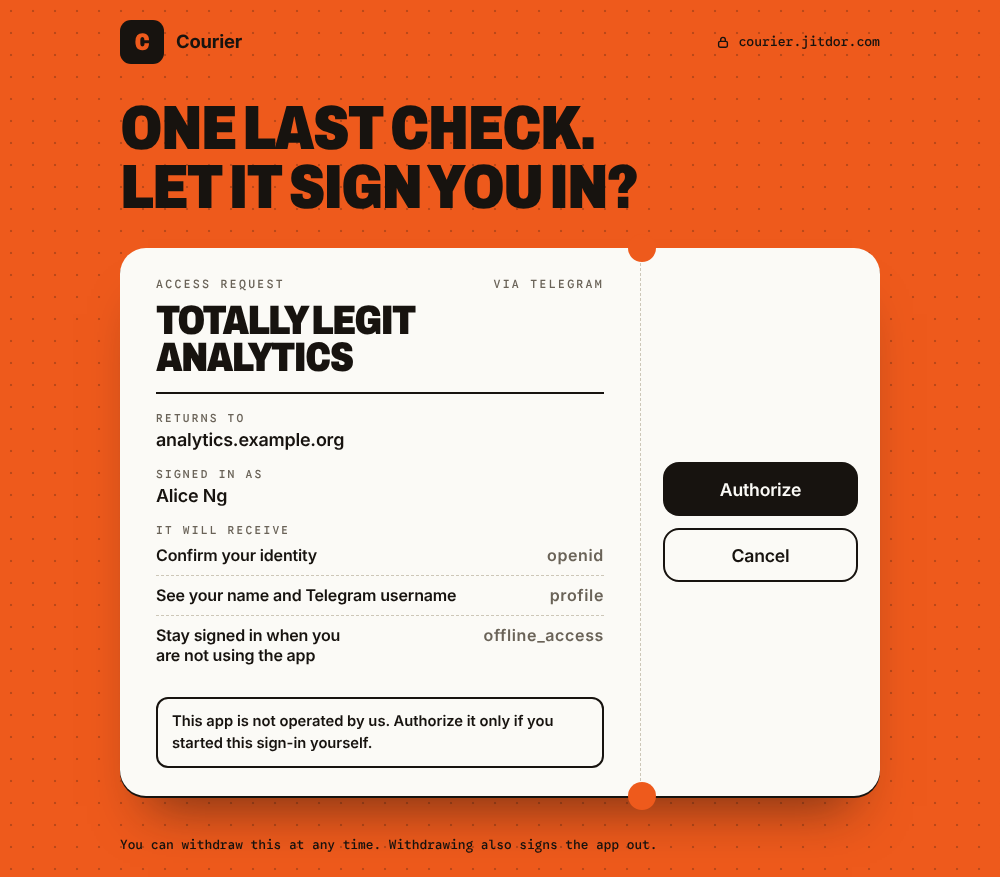
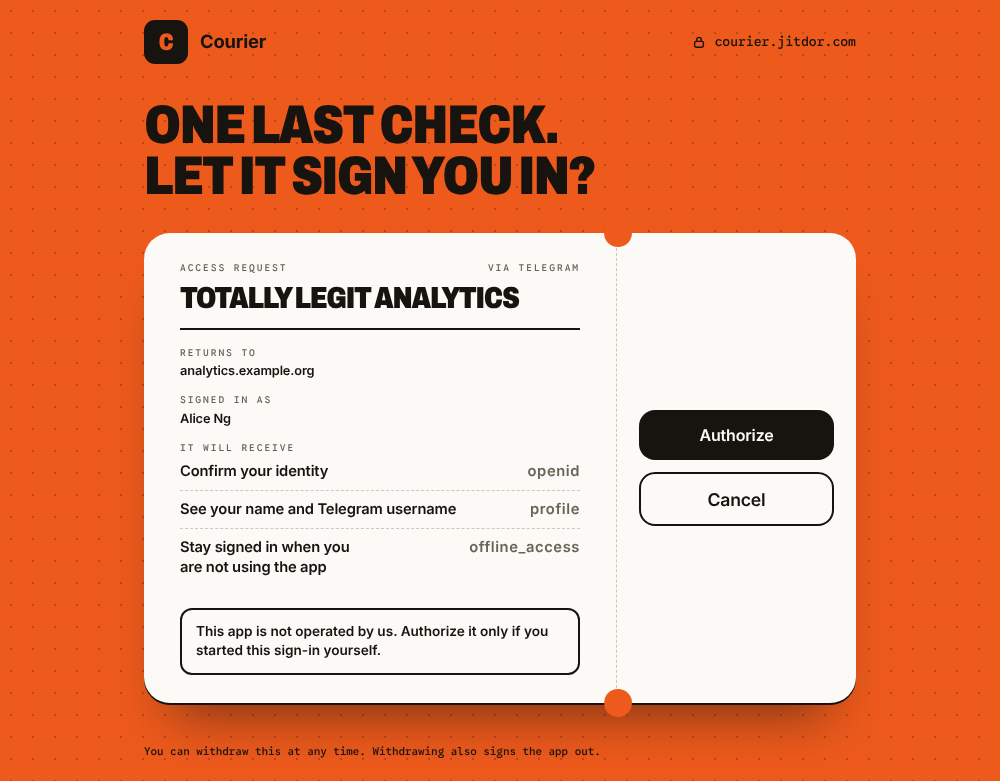
Scale the pass's type down to match the design
Compared against the original mockups at the same size, the values, labels,
hints, footnote and the big name were all too large, most of all on a
computer. Type steps down on phones and tablets and further at 900px and up;
the field columns now size to their content so an address and "Tap Start,
then Approve" stay on one line; the tablet's stub is a third of the ticket
and its button fits on one line. The page is back to 47rem wide. The consent
screen follows. Docs screenshots refreshed.

Claude-Session: https://claude.ai/code/session_01Fm8P6ct3acd1WpajC3GeS1

diff --git a/src/login-page.js b/src/login-page.js
@@ -204,7 +204,7 @@ function loginStyles(branding, fontsPath) {
     color: var(--tqa-on); font: 16px/1.5 var(--tqa-font); -webkit-font-smoothing: antialiased; text-rendering: optimizeLegibility;
   }
   .tqa-page {
-    display: flex; flex-direction: column; width: min(100%, 50rem); min-height: 100vh; min-height: 100dvh; margin: 0 auto;
+    display: flex; flex-direction: column; width: min(100%, 47rem); min-height: 100vh; min-height: 100dvh; margin: 0 auto;
     padding: max(20px, env(safe-area-inset-top)) 20px max(22px, env(safe-area-inset-bottom));
   }
   .tqa-top { display: flex; align-items: center; justify-content: space-between; gap: 14px; min-width: 0; }
@@ -238,7 +238,7 @@ function loginStyles(branding, fontsPath) {
     animation: tqa-rise 0.5s cubic-bezier(0.2, 0.8, 0.2, 1) both;
   }
   .tqa-main { min-width: 0; padding: 26px 24px 24px; container-type: inline-size; }
-  .tqa-kicker { display: flex; justify-content: space-between; gap: 12px; font: 500 0.72rem/1.2 var(--tqa-mono); letter-spacing: 0.2em; text-transform: uppercase; color: var(--tqa-muted); }
+  .tqa-kicker { display: flex; justify-content: space-between; gap: 12px; font: 500 0.66rem/1.2 var(--tqa-mono); letter-spacing: 0.2em; text-transform: uppercase; color: var(--tqa-muted); }
   .tqa-name {
     margin: 0.6rem 0 0; padding-bottom: 1rem; border-bottom: 2px solid var(--tqa-ink);
     font: 900 calc(min(23cqw, 6.8rem) * var(--tqa-name-scale, 1))/0.9 var(--tqa-display); letter-spacing: -0.04em; text-transform: uppercase;
@@ -246,8 +246,8 @@ function loginStyles(branding, fontsPath) {
   }
   .tqa-fields { display: grid; grid-template-columns: repeat(2, minmax(0, 1fr)); gap: 16px 20px; margin: 18px 0 0; }
   .tqa-field { min-width: 0; }
-  .tqa-field dt { font: 500 0.7rem/1.2 var(--tqa-mono); letter-spacing: 0.2em; text-transform: uppercase; color: var(--tqa-muted); }
-  .tqa-field dd { margin: 4px 0 0; font-weight: 600; font-size: 1.12rem; line-height: 1.25; letter-spacing: -0.01em; overflow-wrap: anywhere; text-wrap: balance; }
+  .tqa-field dt { font: 500 0.64rem/1.2 var(--tqa-mono); letter-spacing: 0.2em; text-transform: uppercase; color: var(--tqa-muted); }
+  .tqa-field dd { margin: 4px 0 0; font-weight: 600; font-size: 1rem; line-height: 1.25; letter-spacing: -0.01em; overflow-wrap: anywhere; text-wrap: balance; }
   .tqa-f-dest { grid-column: 1 / -1; }
   .tqa-f-next { display: none; }
   .tqa-status { display: inline-flex; align-items: center; gap: 0.5em; }
@@ -281,11 +281,11 @@ function loginStyles(branding, fontsPath) {
   .tqa-qr svg > rect:first-child { fill: var(--tqa-paper); }
   .tqa-qr svg > path { fill: var(--tqa-ink); }
   .tqa-qr svg .qr-eye { fill: color-mix(in srgb, var(--tqa-accent) 88%, #000); }
-  .tqa-cap { margin: 0; font: 500 0.74rem/1.4 var(--tqa-mono); letter-spacing: 0.15em; text-transform: uppercase; text-align: center; text-wrap: balance; }
+  .tqa-cap { margin: 0; font: 500 0.68rem/1.4 var(--tqa-mono); letter-spacing: 0.15em; text-transform: uppercase; text-align: center; text-wrap: balance; }
   .tqa-cap-other { display: none; }
   .tqa-here, .tqa-switch {
     appearance: none; margin: 0; padding: 0; border: 0; background: none; cursor: pointer; color: var(--tqa-ink);
-    font: 600 0.95rem/1.35 var(--tqa-font); letter-spacing: -0.005em; text-align: center;
+    font: 600 0.88rem/1.35 var(--tqa-font); letter-spacing: -0.005em; text-align: center;
     text-decoration: underline; text-decoration-thickness: 2px; text-underline-offset: 3px;
   }
   .tqa-switch { display: none; align-self: flex-start; text-align: left; }
@@ -300,20 +300,20 @@ function loginStyles(branding, fontsPath) {
   .tqa-open:active, .tqa-retry:active { transform: scale(0.985); }
   .tqa-open svg { flex: none; width: 17px; height: 17px; fill: none; stroke: currentColor; stroke-width: 2.4; stroke-linecap: round; stroke-linejoin: round; }
   .tqa-lbl-long { display: none; }
-  .tqa-how { display: none; margin: 0; font: 400 0.85rem/1.6 var(--tqa-mono); color: var(--tqa-muted); text-align: center; }
+  .tqa-how { display: none; margin: 0; font: 400 0.75rem/1.6 var(--tqa-mono); color: var(--tqa-muted); text-align: center; }
   .tqa-or {
     display: none; align-items: center; gap: 12px; width: 100%; font: 500 0.75rem/1 var(--tqa-mono); letter-spacing: 0.22em; text-transform: uppercase; color: var(--tqa-muted);
   }
   .tqa-or::before, .tqa-or::after { content: ""; flex: 1; border-top: 1.5px dashed var(--tqa-rule); }
-  .tqa-msg { display: none; width: 100%; margin: 0; font: 500 0.88rem/1.5 var(--tqa-mono); text-align: center; color: var(--tqa-bad); }
+  .tqa-msg { display: none; width: 100%; margin: 0; font: 500 0.78rem/1.5 var(--tqa-mono); text-align: center; color: var(--tqa-bad); }
   .tqa-stamp { display: none; width: 100%; min-height: 9rem; place-content: center; justify-items: center; gap: 16px; text-align: center; }
   .tqa-stamp-mark {
     display: inline-block; padding: 0.12em 0.4em 0.08em; border: 0.14em solid var(--tqa-ok); border-radius: 0.3em; color: var(--tqa-ok);
     font: 900 clamp(1.9rem, 8vw, 2.6rem)/1 var(--tqa-display); letter-spacing: -0.01em; text-transform: uppercase; transform: rotate(-6deg);
     animation: tqa-stamp 0.45s cubic-bezier(0.2, 1.3, 0.4, 1) both;
   }
-  .tqa-stamp-note { margin: 0; font: 500 0.8rem/1.4 var(--tqa-mono); color: var(--tqa-muted); }
-  .tqa-foot { margin: 0; padding-top: 1rem; font: 500 0.8rem/1.5 var(--tqa-mono); }
+  .tqa-stamp-note { margin: 0; font: 500 0.72rem/1.4 var(--tqa-mono); color: var(--tqa-muted); }
+  .tqa-foot { margin: 0; padding-top: 1rem; font: 500 0.75rem/1.5 var(--tqa-mono); }
   .tqa-foot > span { display: none; }
   .tqa-foot > .tqa-foot-desk { display: inline; }
   .tqa-foot-extra { margin: 0.5rem 0 0; font-size: 0.8rem; }
@@ -326,17 +326,29 @@ function loginStyles(branding, fontsPath) {
   /* Wide enough for the stub to sit beside the ticket. */
   @media (min-width: 640px) {
     .tqa-main { padding: 30px 36px 28px; }
-    /* The first column carries the address and the status, which are the longest values. */
-    .tqa-fields { grid-template-columns: minmax(0, 1.4fr) minmax(0, 1.1fr) minmax(0, 1.1fr); column-gap: 14px; }
+    /* Columns the width of what is in them, sharing out whatever is left, so an address or "Tap Start, then Approve" stays on one line when it fits. */
+    .tqa-fields { grid-template-columns: repeat(3, auto); column-gap: 14px; }
     .tqa-f-dest { grid-column: auto; }
     .tqa-f-next { display: block; }
+    .tqa-field dd { font-size: 0.9rem; }
   }
   @media (min-width: 900px) {
-    .tqa-ticket { grid-template-columns: minmax(0, 1fr) 15rem; }
+    .tqa-ticket { grid-template-columns: minmax(0, 1fr) clamp(15rem, 33%, 19rem); }
     .tqa-stub { justify-content: center; padding: 28px 22px; border-top: 0; border-left: 1.5px dashed var(--tqa-rule); }
     .tqa-stub::before { top: calc(var(--tqa-notch) * -1); left: calc(var(--tqa-notch) * -1 + 0.75px); }
     .tqa-stub::after { top: auto; right: auto; bottom: calc(var(--tqa-notch) * -1); left: calc(var(--tqa-notch) * -1 + 0.75px); }
     .tqa-stamp-mark { font-size: 1.8rem; }
+    /* Room to spare: the type steps down so the ticket reads as a ticket, not as a form. */
+    .tqa-headline { font-size: clamp(2rem, 9.9vw, 3.4rem); }
+    .tqa-name { font-size: calc(min(19cqw, 5.6rem) * var(--tqa-name-scale, 1)); }
+    .tqa-kicker, .tqa-field dt { font-size: 0.6rem; }
+    .tqa-field dd { font-size: 0.8rem; }
+    .tqa-cap { font-size: 0.62rem; }
+    .tqa-here, .tqa-switch { font-size: 0.8rem; }
+    .tqa-foot { font-size: 0.68rem; }
+    .tqa-how { font-size: 0.7rem; }
+    .tqa-msg { font-size: 0.74rem; }
+    .tqa-open, .tqa-retry { min-height: 50px; font-size: 1rem; }
   }
 
   /* Phones and tablets can't scan their own screen: they get the button. */
@@ -362,6 +374,9 @@ function loginStyles(branding, fontsPath) {
   @media (hover: none) and (pointer: coarse) and (min-width: 900px) {
     .tqa-lbl-short { display: none; }
     .tqa-lbl-long { display: inline; }
+    .tqa-qr-link { width: min(100%, 9.5rem); }
+    .tqa-stub { gap: 10px; padding-top: 22px; padding-bottom: 22px; }
+    .tqa-open { font-size: 0.9rem; padding: 0 14px; gap: 8px; min-height: 44px; }
   }
   /* Phone: the button first, and the QR for a second device one tap away. */
   @media (hover: none) and (pointer: coarse) and (max-width: 639.98px) {

diff --git a/src/oidc/consent-page.js b/src/oidc/consent-page.js
@@ -67,10 +67,10 @@ ${pageHead({
   .tqa-f-wide { grid-column: 1 / -1; }
   .tqa-field dd code { font: inherit; }
   .tqa-scopes { list-style: none; margin: 4px 0 0; padding: 0; }
-  .tqa-scopes li { display: flex; justify-content: space-between; align-items: baseline; gap: 12px; padding: 9px 0; border-top: 1.5px dashed var(--tqa-rule); font-weight: 600; font-size: 1rem; line-height: 1.3; letter-spacing: -0.01em; }
+  .tqa-scopes li { display: flex; justify-content: space-between; align-items: baseline; gap: 12px; padding: 9px 0; border-top: 1.5px dashed var(--tqa-rule); font-weight: 600; font-size: 0.92rem; line-height: 1.3; letter-spacing: -0.01em; }
   .tqa-scopes li:first-child { border-top: 0; padding-top: 4px; }
-  .tqa-scopes code { flex: none; font: 500 0.72rem/1.3 var(--tqa-mono); letter-spacing: 0.04em; color: var(--tqa-muted); }
-  .tqa-warn { margin: 22px 0 0; padding: 12px 14px; border: 2px solid var(--tqa-ink); border-radius: 12px; font-weight: 600; font-size: 0.92rem; line-height: 1.45; }
+  .tqa-scopes code { flex: none; font: 500 0.66rem/1.3 var(--tqa-mono); letter-spacing: 0.04em; color: var(--tqa-muted); }
+  .tqa-warn { margin: 22px 0 0; padding: 12px 14px; border: 2px solid var(--tqa-ink); border-radius: 12px; font-weight: 600; font-size: 0.85rem; line-height: 1.45; }
   .tqa-decide { display: flex; flex-direction: column; gap: 12px; width: 100%; margin: 0; }
   .tqa-ghost {
     display: flex; align-items: center; justify-content: center; width: 100%; min-height: 54px; padding: 0 20px; border: 2px solid var(--tqa-ink); border-radius: 16px;
